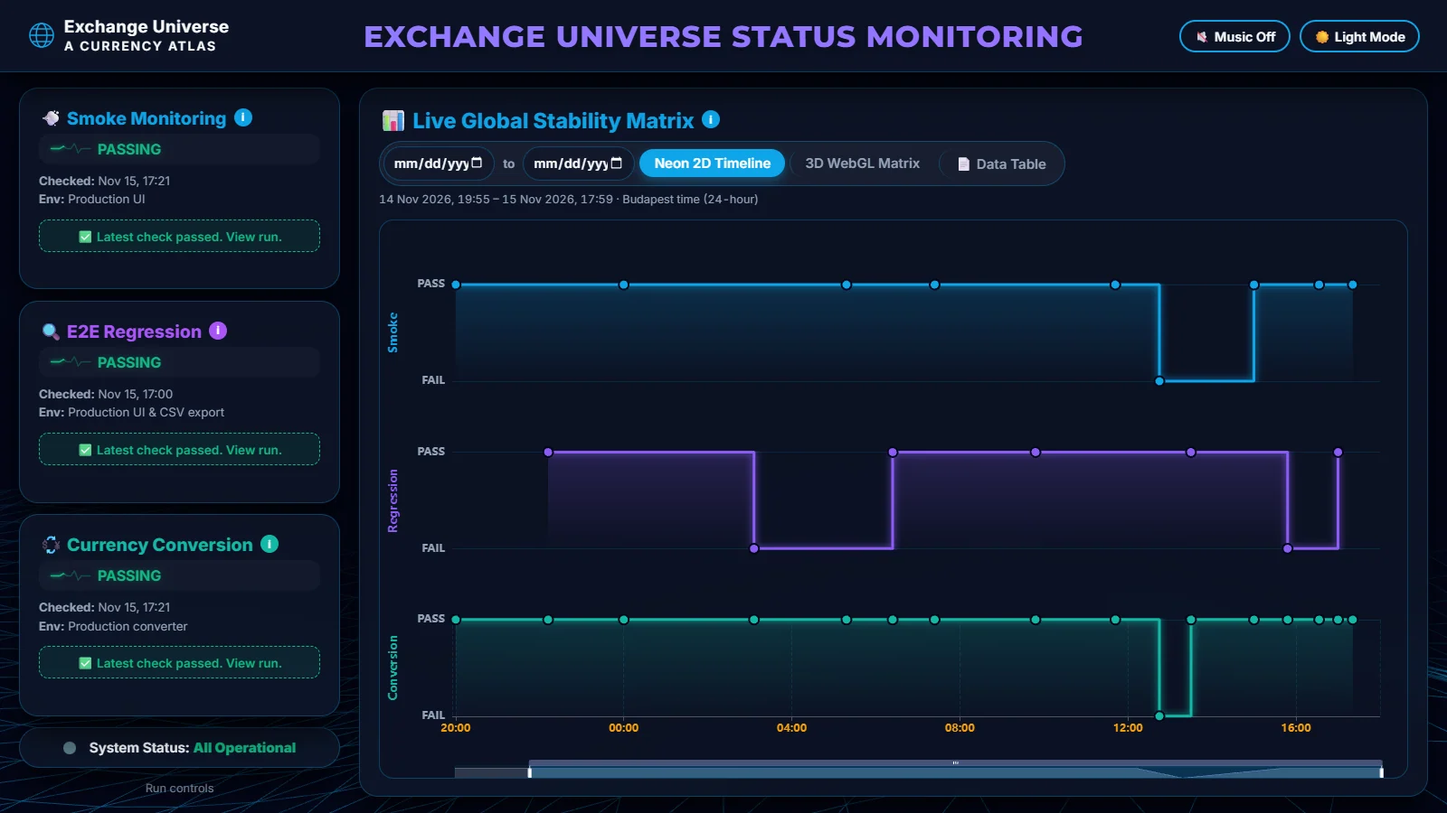
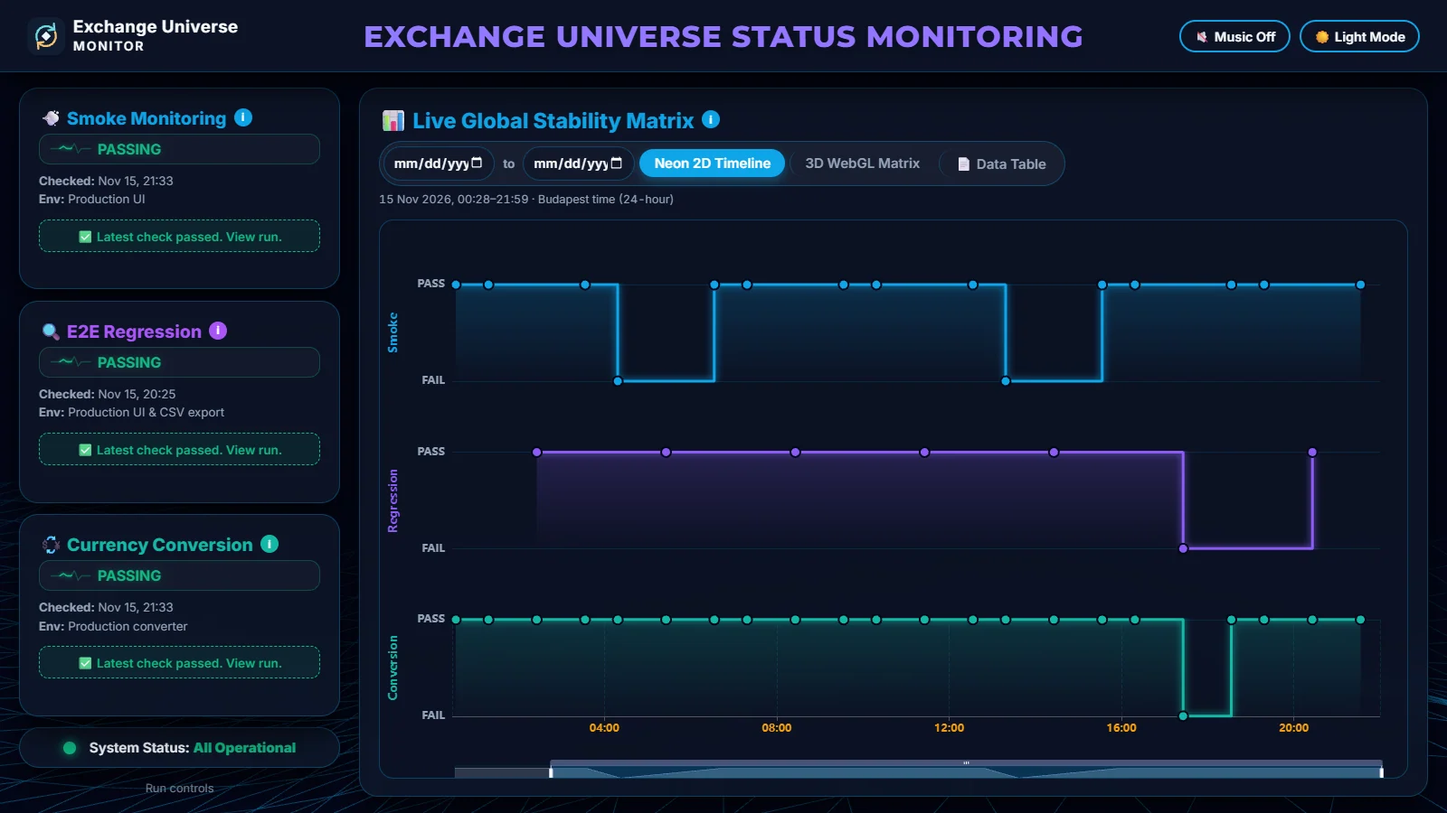
Replace the featured clinic project with Exchange Universe Monitor

diff --git a/index.html b/index.html
@@ -80,15 +80,17 @@ img{height:auto}
       "description": "Explore Sadeq Rezai’s software projects in workflow automation, API testing, data visualisation and AI integration.",
       "image": "https://rammeshgar.github.io/assets/social-preview-20261101.png",
       "inLanguage": "en",
-      "dateModified": "2026-11-15T21:53:29+01:00",
+      "dateModified": "2026-11-15T22:03:43+01:00",
       "isPartOf": { "@id": "https://rammeshgar.github.io/#website" },
       "mainEntity": { "@id": "https://rammeshgar.github.io/#sadeq-rezai" },
       "hasPart": [
         {
-          "@type": "CreativeWork",
-          "name": "Peoples Clinic QA Suite",
-          "url": "https://rammeshgar.github.io/PC-test-automation/",
-          "description": "Scheduled browser, API, parser and AI-behavior checks with inspectable monitoring evidence."
+          "@type": "SoftwareApplication",
+          "name": "Exchange Universe Monitor",
+          "url": "https://github.com/Rammeshgar/exchange-universe-monitor",
+          "applicationCategory": "DeveloperApplication",
+          "operatingSystem": "Windows",
+          "description": "Playwright browser checks for the Exchange Universe currency atlas with a local evidence dashboard and optional SMTP alerts."
         },
         {
           "@type": "SoftwareApplication",
@@ -105,14 +107,6 @@ img{height:auto}
           "applicationCategory": "WebApplication",
           "operatingSystem": "Web browser",
           "description": "An R Shiny currency atlas linking historical comparisons, conversion and CSV export with an interactive Leaflet world map. Currency coverage depends on the data provider."
-        },
-        {
-          "@type": "SoftwareApplication",
-          "name": "Exchange Universe Monitor",
-          "url": "https://github.com/Rammeshgar/exchange-universe-monitor",
-          "applicationCategory": "DeveloperApplication",
-          "operatingSystem": "Windows",
-          "description": "Playwright browser checks for the Exchange Universe currency atlas with a local evidence dashboard and optional SMTP alerts."
         },
         {
           "@type": "CreativeWork",
@@ -179,21 +173,37 @@ img{height:auto}
  </section>
  <section class="work" id="work" aria-labelledby="work-heading"><div class="wrap">
   <div class="section-heading"><div><p class="mono">01 / Selected work</p><h2 id="work-heading">Selected projects.</h2></div><p>Start with a project. See what I contributed, why I made the decisions, and what you can check for yourself.</p></div>
-  <div class="project-preview-controls"><p><span class="preview-hint-desktop">Hover or focus a preview to see the system in motion.</span><span class="preview-hint-touch">Open a case study for the full walkthrough.</span><span id="ambient-hint" class="background-hint" role="status" hidden></span></p><div class="work-motion-controls"><button id="ambient-motion-toggle" type="button" aria-pressed="false" aria-controls="ambient-field" hidden>Pause background</button><details class="display-settings"><summary>Display<span class="display-chevron" aria-hidden="true"></span></summary><div class="display-panel"><p>Adjust the background and project previews.</p><label class="background-strength" hidden>Background <select id="ambient-strength" aria-label="Background intensity"><option value="immersive">Immersive</option><option value="calm">Calm</option></select></label><button id="ambient-ripple" type="button" aria-label="Send background ripple" aria-controls="ambient-field" title="Send a ripple through the background" hidden>Send a ripple</button><button id="project-preview-motion" type="button" aria-pressed="false" aria-controls="qa-suite-machine-preview exchange-machine-preview seneschal-machine-preview digital-twin-machine-preview">Pause previews</button></div></details></div></div>
+  <div class="project-preview-controls"><p><span class="preview-hint-desktop">Hover or focus a preview to see the system in motion.</span><span class="preview-hint-touch">Open a case study for the full walkthrough.</span><span id="ambient-hint" class="background-hint" role="status" hidden></span></p><div class="work-motion-controls"><button id="ambient-motion-toggle" type="button" aria-pressed="false" aria-controls="ambient-field" hidden>Pause background</button><details class="display-settings"><summary>Display<span class="display-chevron" aria-hidden="true"></span></summary><div class="display-panel"><p>Adjust the background and project previews.</p><label class="background-strength" hidden>Background <select id="ambient-strength" aria-label="Background intensity"><option value="immersive">Immersive</option><option value="calm">Calm</option></select></label><button id="ambient-ripple" type="button" aria-label="Send background ripple" aria-controls="ambient-field" title="Send a ripple through the background" hidden>Send a ripple</button><button id="project-preview-motion" type="button" aria-pressed="false" aria-controls="exchange-machine-preview seneschal-machine-preview digital-twin-machine-preview">Pause previews</button></div></details></div></div>
   <div class="project-index" aria-label="Three selected projects">
-   <article id="qa-case" data-figure-preview="qa-suite"><div class="index-media"><a class="index-image" href="qa-suite/" aria-label="QA inspection and evidence"><img src="assets/monitoring.webp" alt="Peoples Clinic execution-history dashboard" width="1907" height="972" loading="lazy" decoding="async"><span class="image-guide-label">See how it works ↗</span></a><div class="real-machine-preview"><iframe id="qa-suite-machine-preview" title="Decorative animation of a QA check leaving evidence" data-src="qa-suite/guide.html?view=guide&amp;layout=preview" tabindex="-1" aria-hidden="true" referrerpolicy="no-referrer"></iframe></div></div><p class="project-kicker">01 / Workflow validation</p><h3><a href="qa-suite/">Peoples Clinic QA Suite <span aria-hidden="true">↗</span></a></h3><p>Scheduled browser and API checks save screenshots and run history when a check fails.</p><p class="index-contribution"><strong>My contribution</strong> Workflow checks, scheduled execution and dashboard integration.</p><a class="index-link" href="qa-suite/">Interactive case study <span aria-hidden="true">↗</span></a><p class="index-invitation">Follow a check to its evidence.</p><div class="index-evidence-links"><a href="https://rammeshgar.github.io/PC-test-automation/" target="_blank" rel="noopener">Monitoring dashboard ↗</a><a href="https://github.com/Rammeshgar/PC-test-automation" target="_blank" rel="noopener">Source ↗</a></div></article>
-<article id="exchange-case"><div class="index-media"><a class="index-image" id="exchange-image" href="exchange-universe/" aria-label="See how it works — Exchange Universe: open the real system map and animated guide"><img src="assets/exchange-atlas-20261014.png" alt="Exchange Universe currency chart and linked world atlas" width="1600" height="1000" loading="lazy" decoding="async"><span class="image-guide-label">See how it works ↗</span></a><div class="real-machine-preview"><iframe id="exchange-machine-preview" title="Decorative animation of how Exchange Universe gets rates" data-src="exchange-universe/guide.html?view=guide&amp;layout=preview" tabindex="-1" aria-hidden="true" referrerpolicy="no-referrer"></iframe></div></div><p class="project-kicker">02 / R data product</p><h3><a href="exchange-universe/">Exchange Universe <span aria-hidden="true">↗</span></a></h3><p>Compare exchange rates with charts and a world map.</p><p class="index-contribution"><strong>My contribution</strong> R/Shiny development, quota-aware API integration and browser monitoring.</p><a class="index-link" href="exchange-universe/">Interactive case study <span aria-hidden="true">↗</span></a><p class="index-invitation">Follow a currency request.</p><div class="index-evidence-links"><a href="https://sadeq.shinyapps.io/exchange_universe/" target="_blank" rel="noopener">Live app ↗</a><a href="https://github.com/Rammeshgar/Exchange_Universe_shiny" target="_blank" rel="noopener">Source ↗</a><a href="exchange-universe/#monitoring">Monitoring ↗</a></div></article>
+   <article id="qa-case">
+    <div class="index-media">
+     <a class="index-image" href="exchange-universe/#monitoring" aria-label="Explore the Exchange Universe Monitor case study">
+      <img src="assets/exchange-monitor-dashboard.webp" alt="Exchange Universe Monitor showing Smoke, Regression and Conversion results across three timelines" width="1600" height="900" loading="lazy" decoding="async">
+      <span class="image-guide-label">See the monitoring setup ↗</span>
+     </a>
+    </div>
+    <p class="project-kicker">01 / Browser monitoring</p>
+    <h3><a href="exchange-universe/#monitoring">Exchange Universe Monitor <span aria-hidden="true">↗</span></a></h3>
+    <p>Scheduled browser checks exercise the live currency atlas, converter and CSV export.</p>
+    <p class="index-contribution"><strong>My contribution</strong> Playwright checks, run evidence, a 2D and 3D status dashboard, and SMTP incident alerts.</p>
+    <a class="index-link" href="exchange-universe/#monitoring">Monitoring case study <span aria-hidden="true">↗</span></a>
+    <p class="index-invitation">See what each check verifies and what it records.</p>
+    <div class="index-evidence-links">
+     <a href="https://github.com/Rammeshgar/exchange-universe-monitor/releases/latest" target="_blank" rel="noopener">Windows download ↗</a>
+     <a href="https://github.com/Rammeshgar/exchange-universe-monitor" target="_blank" rel="noopener">Source ↗</a>
+    </div>
+   </article>
+<article id="exchange-case"><div class="index-media"><a class="index-image" id="exchange-image" href="exchange-universe/" aria-label="See how it works — Exchange Universe: open the real system map and animated guide"><img src="assets/exchange-atlas-20261014.png" alt="Exchange Universe currency chart and linked world atlas" width="1600" height="1000" loading="lazy" decoding="async"><span class="image-guide-label">See how it works ↗</span></a><div class="real-machine-preview"><iframe id="exchange-machine-preview" title="Decorative animation of how Exchange Universe gets rates" data-src="exchange-universe/guide.html?view=guide&amp;layout=preview" tabindex="-1" aria-hidden="true" referrerpolicy="no-referrer"></iframe></div></div><p class="project-kicker">02 / R data product</p><h3><a href="exchange-universe/">Exchange Universe <span aria-hidden="true">↗</span></a></h3><p>Compare exchange rates with charts and a world map.</p><p class="index-contribution"><strong>My contribution</strong> R/Shiny development, interface design and quota-aware API integration.</p><a class="index-link" href="exchange-universe/">Interactive case study <span aria-hidden="true">↗</span></a><p class="index-invitation">Follow a currency request.</p><div class="index-evidence-links"><a href="https://sadeq.shinyapps.io/exchange_universe/" target="_blank" rel="noopener">Live app ↗</a><a href="https://github.com/Rammeshgar/Exchange_Universe_shiny" target="_blank" rel="noopener">Source ↗</a></div></article>
    <article id="seneschal-case" data-figure-preview="seneschal"><div class="index-media"><a class="index-image" href="seneschal/" aria-label="See how it works — Seneschal dependency and review"><img src="assets/seneschal-beta20-workspace.webp" srcset="assets/seneschal-beta20-workspace-640.webp 640w, assets/seneschal-beta20-workspace-1024.webp 1024w, assets/seneschal-beta20-workspace.webp 1919w" sizes="(max-width: 700px) calc(100vw - 84px), (max-width: 1400px) 42vw, 560px" alt="Seneschal Night Studio workspace with city pixel art and its desktop mascot" width="1919" height="1079" loading="lazy" decoding="async"><span class="image-guide-label">See how it works ↗</span></a><div class="real-machine-preview"><iframe id="seneschal-machine-preview" title="Decorative animation of Seneschal task dependencies" data-src="seneschal/guide.html?view=guide&amp;layout=preview" tabindex="-1" aria-hidden="true" referrerpolicy="no-referrer"></iframe></div></div><p class="project-kicker">03 / AI workflow tools · Beta</p><h3><a href="seneschal/">Seneschal <span aria-hidden="true">↗</span></a></h3><p>A Windows/WSL workspace for OpenCode, with agent coordination, explicit approvals, Activity and optional voice.</p><p class="index-contribution"><strong>My contribution</strong> Workflow design, coordination and AI-assisted implementation.</p><a class="index-link" href="seneschal/">Interactive case study <span aria-hidden="true">↗</span></a><p class="index-invitation">Follow a task through review.</p><div class="index-evidence-links"><a href="https://github.com/Rammeshgar/seneschal/releases" target="_blank" rel="noopener">Beta releases ↗</a><a href="https://github.com/Rammeshgar/seneschal" target="_blank" rel="noopener">Source ↗</a></div><p class="index-caption">Seneschal Night Studio with its desktop mascot.</p></article>
   </div>
   <div class="work-end"><p class="mono">More projects, code and documentation.</p><a id="all-github-work" href="https://github.com/Rammeshgar" target="_blank" rel="noopener">Explore more on GitHub ↗</a></div>
  </div></section>
- <section class="approach" id="approach" aria-labelledby="approach-heading"><div class="wrap"><div class="approach-head"><p class="section-label">02 / How I work</p><h2 id="approach-heading">How I work.</h2></div><div class="steps grid"><article class="step"><span class="mono">01</span><h3>Define what should happen.</h3><p>I start with the workflow, its constraints and how we will check the result. For monitoring, that means a complete journey, from login through to logout.</p></article><article class="step"><span class="mono">02</span><h3>Make the work visible.</h3><p>I connect the parts and keep decisions readable. In Seneschal, that means explicit permissions, task dependencies and handoffs between agents.</p></article><article class="step"><span class="mono">03</span><h3>Check where it can fail.</h3><p>I test the important paths and build a fallback where one is needed. The digital twin keeps text chat available when voice or 3D cannot load.</p></article></div></div></section>
+ <section class="approach" id="approach" aria-labelledby="approach-heading"><div class="wrap"><div class="approach-head"><p class="section-label">02 / How I work</p><h2 id="approach-heading">How I work.</h2></div><div class="steps grid"><article class="step"><span class="mono">01</span><h3>Define what should happen.</h3><p>I start with the workflow, its constraints and how we will check the result. For the currency atlas, that means verifying a complete journey from opening the app to exporting comparison data.</p></article><article class="step"><span class="mono">02</span><h3>Make the work visible.</h3><p>I connect the parts and keep decisions readable. In Seneschal, that means explicit permissions, task dependencies and handoffs between agents.</p></article><article class="step"><span class="mono">03</span><h3>Check where it can fail.</h3><p>I test the important paths and build a fallback where one is needed. The digital twin keeps text chat available when voice or 3D cannot load.</p></article></div></div></section>
  <section class="twin" id="digital-twin" data-figure-preview="digital-twin" aria-labelledby="twin-heading"><div class="wrap twin-grid"><div class="index-media twin-visual"><a class="index-image" href="digital-twin-demo/" aria-label="See how it works — Digital Twin theatre"><img src="assets/digital-twin.png" alt="Sadeq’s original digital-twin project artwork" width="1200" height="630" loading="lazy"><span class="image-guide-label">See how it works ↗</span></a><div class="real-machine-preview"><iframe id="digital-twin-machine-preview" title="Decorative animation of Digital Twin voice and text replies" data-src="digital-twin/guide.html?view=guide&amp;layout=preview" tabindex="-1" aria-hidden="true" referrerpolicy="no-referrer"></iframe></div></div><div class="twin-copy"><p class="section-label">03 / Optional experiment</p><h2 id="twin-heading">Ask about my work.<br><span class="serif">By voice or text.</span></h2><p>I connected a paper-cut character, animation, speech and a professional knowledge source into one browser experience. Ask about my work here, or explore how the system handles voice, lip movement and fallbacks.</p><a class="button" id="open-digital-twin" href="digital-twin-demo/">Explore the full case study <span class="arrow" aria-hidden="true">↗</span></a><p class="footnote">The assistant is optional. The case study contains its launcher, engineering notes and interactive guides.</p><div class="optional-extras"><button type="button" data-open-ai>Try the AI assistant ↗</button><p>Voice, 3D and background music start only when requested.</p></div></div></div></section>
  <section class="about" id="about" aria-labelledby="about-heading"><div class="wrap about-grid"><div><p class="section-label">04 / The person behind it</p><h2 id="about-heading">Sadeq Rezai.</h2><p class="mono muted">Based in Budapest.<br>Open to work.</p></div><div><p>My background spans configuration consulting at FRAIA and data analysis at Peroptyx. At FRAIA, I worked across requirements, browser and API validation, and AI-assisted delivery.</p><p>I use AI-assisted development for web implementation and take responsibility for the structure, integration and testing. R is my strongest programming language; I also have practical Python and SQL knowledge.</p><div class="credentials"><span><strong>Apr 2025–Sep 2026</strong><br>FRAIA / Configuration</span><span><strong>2024–2025</strong><br>Peroptyx / Data analysis</span><span><strong>LANGUAGES</strong><br>English C1 · Hungarian B1–B2<br>Farsi native · German A2</span></div><div class="about-links"><a id="about-linkedin" href="https://www.linkedin.com/in/sadeqrezai/" target="_blank" rel="noopener">Professional background ↗</a><a id="about-github" href="https://github.com/Rammeshgar" target="_blank" rel="noopener">Code & documentation ↗</a></div></div></div></section>
  <section class="contact" id="contact" aria-labelledby="contact-heading"><div class="wrap"><div class="contact-top"><div><p class="mono">05 / Configuration · Validation · Data tools</p><h2 id="contact-heading">Let’s talk<br><span class="serif">about the work.</span></h2></div><a class="round-contact" href="mailto:rezaisadeq0@gmail.com" aria-label="Email me — Sadeq"><span aria-hidden="true">↗</span><span class="round-contact-label">Email me</span></a></div><div class="email-line"><span>rezaisadeq0@gmail.com</span><button type="button" data-copy-email>Copy email</button><span id="copy-status" class="sr-only" role="status" aria-live="polite"></span></div><footer class="footer"><span>© 2026 Sadeq Rezai · The Working Studio</span><div class="footer-links"><a id="footer-linkedin" href="https://www.linkedin.com/in/sadeqrezai/" target="_blank" rel="noopener">LinkedIn ↗</a><a id="footer-github" href="https://github.com/Rammeshgar" target="_blank" rel="noopener">GitHub ↗</a><a id="back-to-top" href="#top">Back to top ↑</a></div></footer></div></section>
 </main>
 
-<dialog id="monitor-dialog" aria-labelledby="monitor-heading"><div class="dialog-head"><h2 id="monitor-heading">Peoples Clinic QA Suite</h2><button class="close-dialog" type="button" aria-label="Close monitoring case study">×</button></div><div class="dialog-body"><p class="mono">Quality engineering / Browser · API · CI/CD</p><p class="case-lead">A repeatable way to check a web workflow and keep the evidence available when a check fails.</p><div class="case-grid"><section><h3>The problem</h3><p>A page can load while a login, consultation or API path still fails. Those journeys need checks that can run again and leave useful evidence.</p></section><section><h3>My focus</h3><p>I connected workflow validation with scheduled execution and a dashboard, so the checks and their latest states can be inspected together.</p></section><section><h3>The implementation</h3><ul><li>Smoke checks for login, dashboard and logout.</li><li>UI/API regression checks for the consultation workflow.</li><li>Parser and AI-behavior checks with artifacts.</li><li>Cooldown-aware alerts for repeated failures.</li></ul></section><section><h3>What you can inspect</h3><p>The dashboard shows status and execution history for each suite, including when a monitor is paused. The screenshot on this page is a historical example.</p><p>These checks cover selected behavior. They do not establish clinical accuracy or guarantee availability.</p></section></div><div class="project-links"><a id="monitor-source" href="https://github.com/Rammeshgar/PC-test-automation" target="_blank" rel="noopener">Read the source ↗</a><a id="monitor-dialog-dashboard" href="https://rammeshgar.github.io/PC-test-automation/" target="_blank" rel="noopener">Inspect the dashboard ↗</a></div></div></dialog>
 <dialog id="seneschal-dialog" aria-labelledby="seneschal-heading"><div class="dialog-head"><h2 id="seneschal-heading">Seneschal</h2><button class="close-dialog" type="button" aria-label="Close Seneschal case study">×</button></div><div class="dialog-body"><p class="mono">AI workflow tools / Windows · WSL · OpenCode</p><p class="case-lead">A local workspace that makes agent tasks, permissions and review visible.</p><div class="case-grid"><section><h3>The problem</h3><p>Working with several AI agents creates decisions about who does what, which tasks depend on others and what an agent may change. I wanted those decisions in the interface.</p></section><section><h3>My focus</h3><p>I structured the workflow and directed the AI-assisted implementation: sessions, roles, access controls and a board for coordinating dependent work.</p></section><section><h3>A decision in the design</h3><p>A dependent task starts after its selected prerequisites finish. Each board card retains a session, and a supervisor can review the completed work. Permissions and handoffs stay visible.</p></section><section><h3>What you can inspect</h3><p>The public beta includes source code, releases and documentation for the Agent Board, Windows/WSL setup and local integrations. Cloud model use still depends on the selected provider.</p><p>The portfolio image shows the Night Studio workspace and desktop mascot.</p></section></div><div class="project-links"><a href="https://github.com/Rammeshgar/seneschal" target="_blank" rel="noopener">Read the source ↗</a><a href="https://github.com/Rammeshgar/seneschal/releases" target="_blank" rel="noopener">View beta releases ↗</a></div></div></dialog>
 <dialog id="exchange-dialog" aria-labelledby="exchange-heading">
  <div class="dialog-head"><h2 id="exchange-heading">Exchange Universe</h2><button class="close-dialog" type="button" aria-label="Close Exchange Universe case study">×</button></div>

diff --git a/seneschal/index.html b/seneschal/index.html
@@ -74,6 +74,6 @@
  <section class="case-evidence wrap" aria-labelledby="evidence-heading"><h2 id="evidence-heading">What you can inspect.</h2><div class="evidence-notes"><article><h3>Published Beta 20</h3><p>The release, user guide and current repository document the workspace, Agent Board, Activity, voice and phone access. The screenshot below the interactive examples matches the image in the current repository.</p></article><article><h3>Published validation scope</h3><p>Beta 20 reports 288 passing source/package tests and 207 separate synthetic Phone Access checks. Those checks cover source behavior and packaging; they do not replace testing a fresh Windows/WSL installation, physical phone or microphone. <a href="https://github.com/Rammeshgar/seneschal/blob/97587605a63a8dc89b32a81245205b51a9538b2c/docs/VALIDATION.md" target="_blank" rel="noopener noreferrer">Read the validation record ↗</a></p></article></div><div class="evidence-links"><a href="https://github.com/Rammeshgar/seneschal" target="_blank" rel="noopener noreferrer">Source & documentation ↗</a><a href="https://github.com/Rammeshgar/seneschal/releases" target="_blank" rel="noopener noreferrer">Beta releases ↗</a></div></section>
  <section class="boundaries wrap" aria-labelledby="limits-heading"><h2 id="limits-heading">Beta and privacy boundaries.</h2><p>Cloud model use depends on the selected provider. A local workspace does not mean that model requests remain entirely on the computer; the provider receives the prompt context needed for a request.</p><p>This page runs no agents and reads no private sessions. Its interactive map and railway explain the task-board workflow, not every feature listed above. Beta software and generated results still require review.</p></section>
  <p class="source-review wrap">Updated 1 November 2026 against <a href="https://github.com/Rammeshgar/seneschal/blob/97587605a63a8dc89b32a81245205b51a9538b2c/README.md" target="_blank" rel="noopener noreferrer">source revision 9758760</a> and the published Beta 20 release.</p>
-</main><footer class="site-footer wrap"><a href="../#work">← Back to selected work</a><a href="../qa-suite/">Explore the QA workflow →</a><p>Sadeq Rezai · Budapest</p></footer>
+</main><footer class="site-footer wrap"><a href="../#work">← Back to selected work</a><a href="../exchange-universe/#monitoring">Explore the monitoring workflow →</a><p>Sadeq Rezai · Budapest</p></footer>
 <noscript><p class="wrap">The complete map and workflow explanations are available without JavaScript.</p></noscript>
 </body></html>

diff --git a/production.css b/production.css
@@ -243,8 +243,8 @@ dialog{width:min(880px,calc(100vw - 32px));max-height:88dvh;border:1px solid var
 /* Selected A hierarchy, keeping each real thumbnail owner and native navigation. */
 .page .project-index{grid-template-columns:repeat(2,minmax(0,1fr));gap:40px;margin-bottom:36px}
 .page .project-index #qa-case{grid-column:1/-1;display:grid;grid-template-columns:minmax(0,1.6fr) minmax(0,1fr);column-gap:50px;align-items:start;background:transparent;border:0;border-bottom:1px solid var(--line);padding:0 0 40px}
-#qa-case>.index-media{grid-column:1;grid-row:1/span 8;aspect-ratio:1907/972;margin:0;background:var(--pale);border:1px solid var(--line);padding:16px}
-#qa-case>.index-media .index-image{border:0}#qa-case>.index-media .real-machine-preview{inset:16px}
+#qa-case>.index-media{grid-column:1;grid-row:1/span 8;aspect-ratio:16/9;margin:0;background:var(--pale);border:1px solid var(--line);padding:16px}
+#qa-case>.index-media .index-image{border:0}#qa-case .index-image>img{object-fit:contain}
 /* Stable navigation: no scroll listener, blur or hide/reveal animation. */
 html:root{scroll-padding-top:107px}
 .page .header{position:sticky;top:0;z-index:90;background:var(--surface,var(--paper));background:color-mix(in srgb,var(--surface,var(--paper)) 97%,transparent);backdrop-filter:none}
@@ -256,4 +256,4 @@ html:root{scroll-padding-top:107px}
 .page .project-index .index-image{background:#0c2323}.page .project-index .image-guide-label{display:none!important}
 .page .project-index .index-link:focus-visible,.page .index-evidence-links a:focus-visible{outline-color:var(--copper)}
 @media(max-width:850px){.page .project-index #qa-case{column-gap:30px;grid-template-columns:minmax(0,1.3fr) minmax(0,1fr)}#qa-case h3{font-size:30px}}
-@media(max-width:700px){.page .project-index{grid-template-columns:1fr;gap:28px}.page .project-index #qa-case{display:flex;gap:0;grid-column:auto;padding-bottom:28px}#qa-case>.index-media{margin-bottom:22px;padding:12px}#qa-case>.index-media .real-machine-preview{inset:12px}#qa-case .index-contribution{width:100%;margin-block:16px}.page .project-index article:not(#qa-case) h3{font-size:27px}}
+@media(max-width:700px){.page .project-index{grid-template-columns:1fr;gap:28px}.page .project-index #qa-case{display:flex;gap:0;grid-column:auto;padding-bottom:28px}#qa-case>.index-media{margin-bottom:22px;padding:12px}#qa-case .index-contribution{width:100%;margin-block:16px}.page .project-index article:not(#qa-case) h3{font-size:27px}}

diff --git a/exchange-universe/index.html b/exchange-universe/index.html
@@ -55,7 +55,7 @@
   </figure>
   <p>The monitor runs on Windows. It keeps browser evidence locally and can send failure, reminder and recovery emails through a configured SMTP account.</p>
   <div class="project-actions">
-   <a class="project-button" href="https://github.com/Rammeshgar/exchange-universe-monitor/releases/tag/v1.0.0" target="_blank" rel="noopener noreferrer">Get the Windows release ↗</a>
+   <a class="project-button" href="https://github.com/Rammeshgar/exchange-universe-monitor/releases/latest" target="_blank" rel="noopener noreferrer">Get the Windows release ↗</a>
    <a href="https://github.com/Rammeshgar/exchange-universe-monitor" target="_blank" rel="noopener noreferrer">View the monitor source ↗</a>
   </div>
  </section>

diff --git a/docs/case-study-guides.md b/docs/case-study-guides.md
@@ -19,14 +19,11 @@ and actually presented media time are exposed as local diagnostic data attribute
 only browser review can establish that decoded frames really changed. The local
 loopback preview supports single byte-range media responses for native seeking.
 
-The homepage has one overview in QA → Exchange Universe → Seneschal order. Each
-project has a visible case-study link, specific guide invitation, contribution and
-external evidence links. `#qa-case` and `#seneschal-case` remain meaningful anchors
-on their cards. CSS hover and `:focus-within` reveal matching decorative previews;
-leaving restores the screenshot. Every project now previews its actual local
-machine in a decorative iframe on hover or link focus.
-QA uses an inspection station, Seneschal an interlocking railway, and Twin a puppet
-theatre; Exchange retains its original press/drawer mechanism. Only one preview
+The homepage features Exchange Universe Monitor, Exchange Universe and Seneschal.
+The monitor opens its case study from a dashboard screenshot. The Exchange app,
+Seneschal and Digital Twin reveal their decorative previews on hover or link
+focus. The Exchange app uses a press and drawer, Seneschal uses an interlocking
+railway, and the Digital Twin uses a puppet theatre. Only one preview
 owns playback at a time. Leaving, hiding or scrolling offscreen stops it; Save-Data
 prevents loading. One Pause previews control sits above the cards, never over the
 artwork. Each miniature shows a short explanation and its model-driven phase. Its
